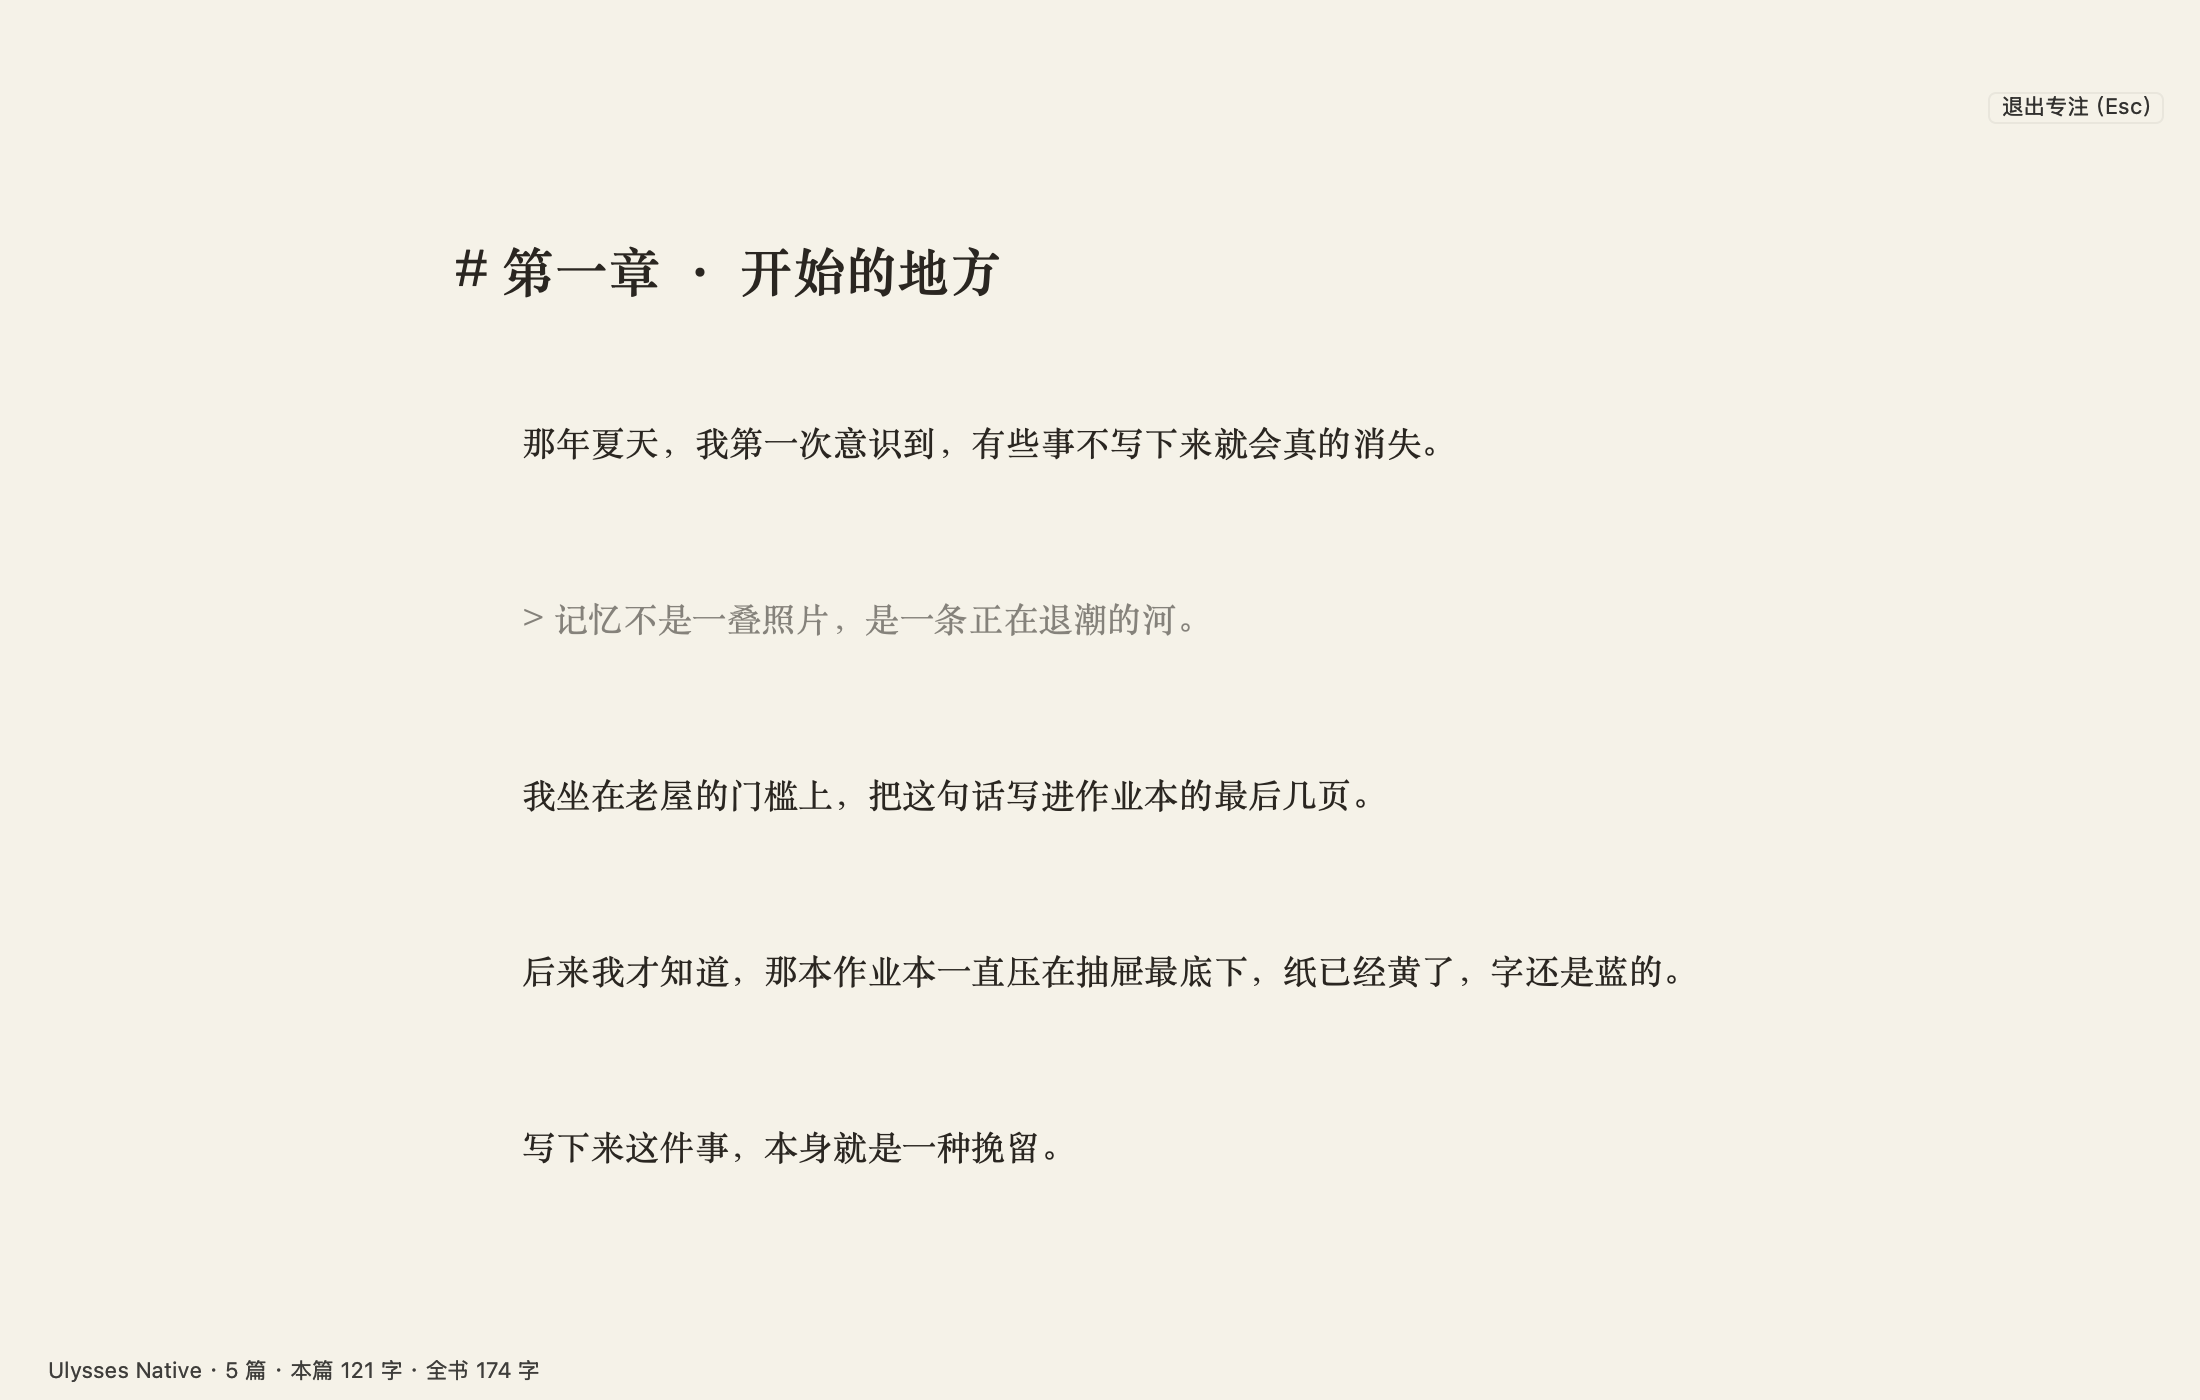
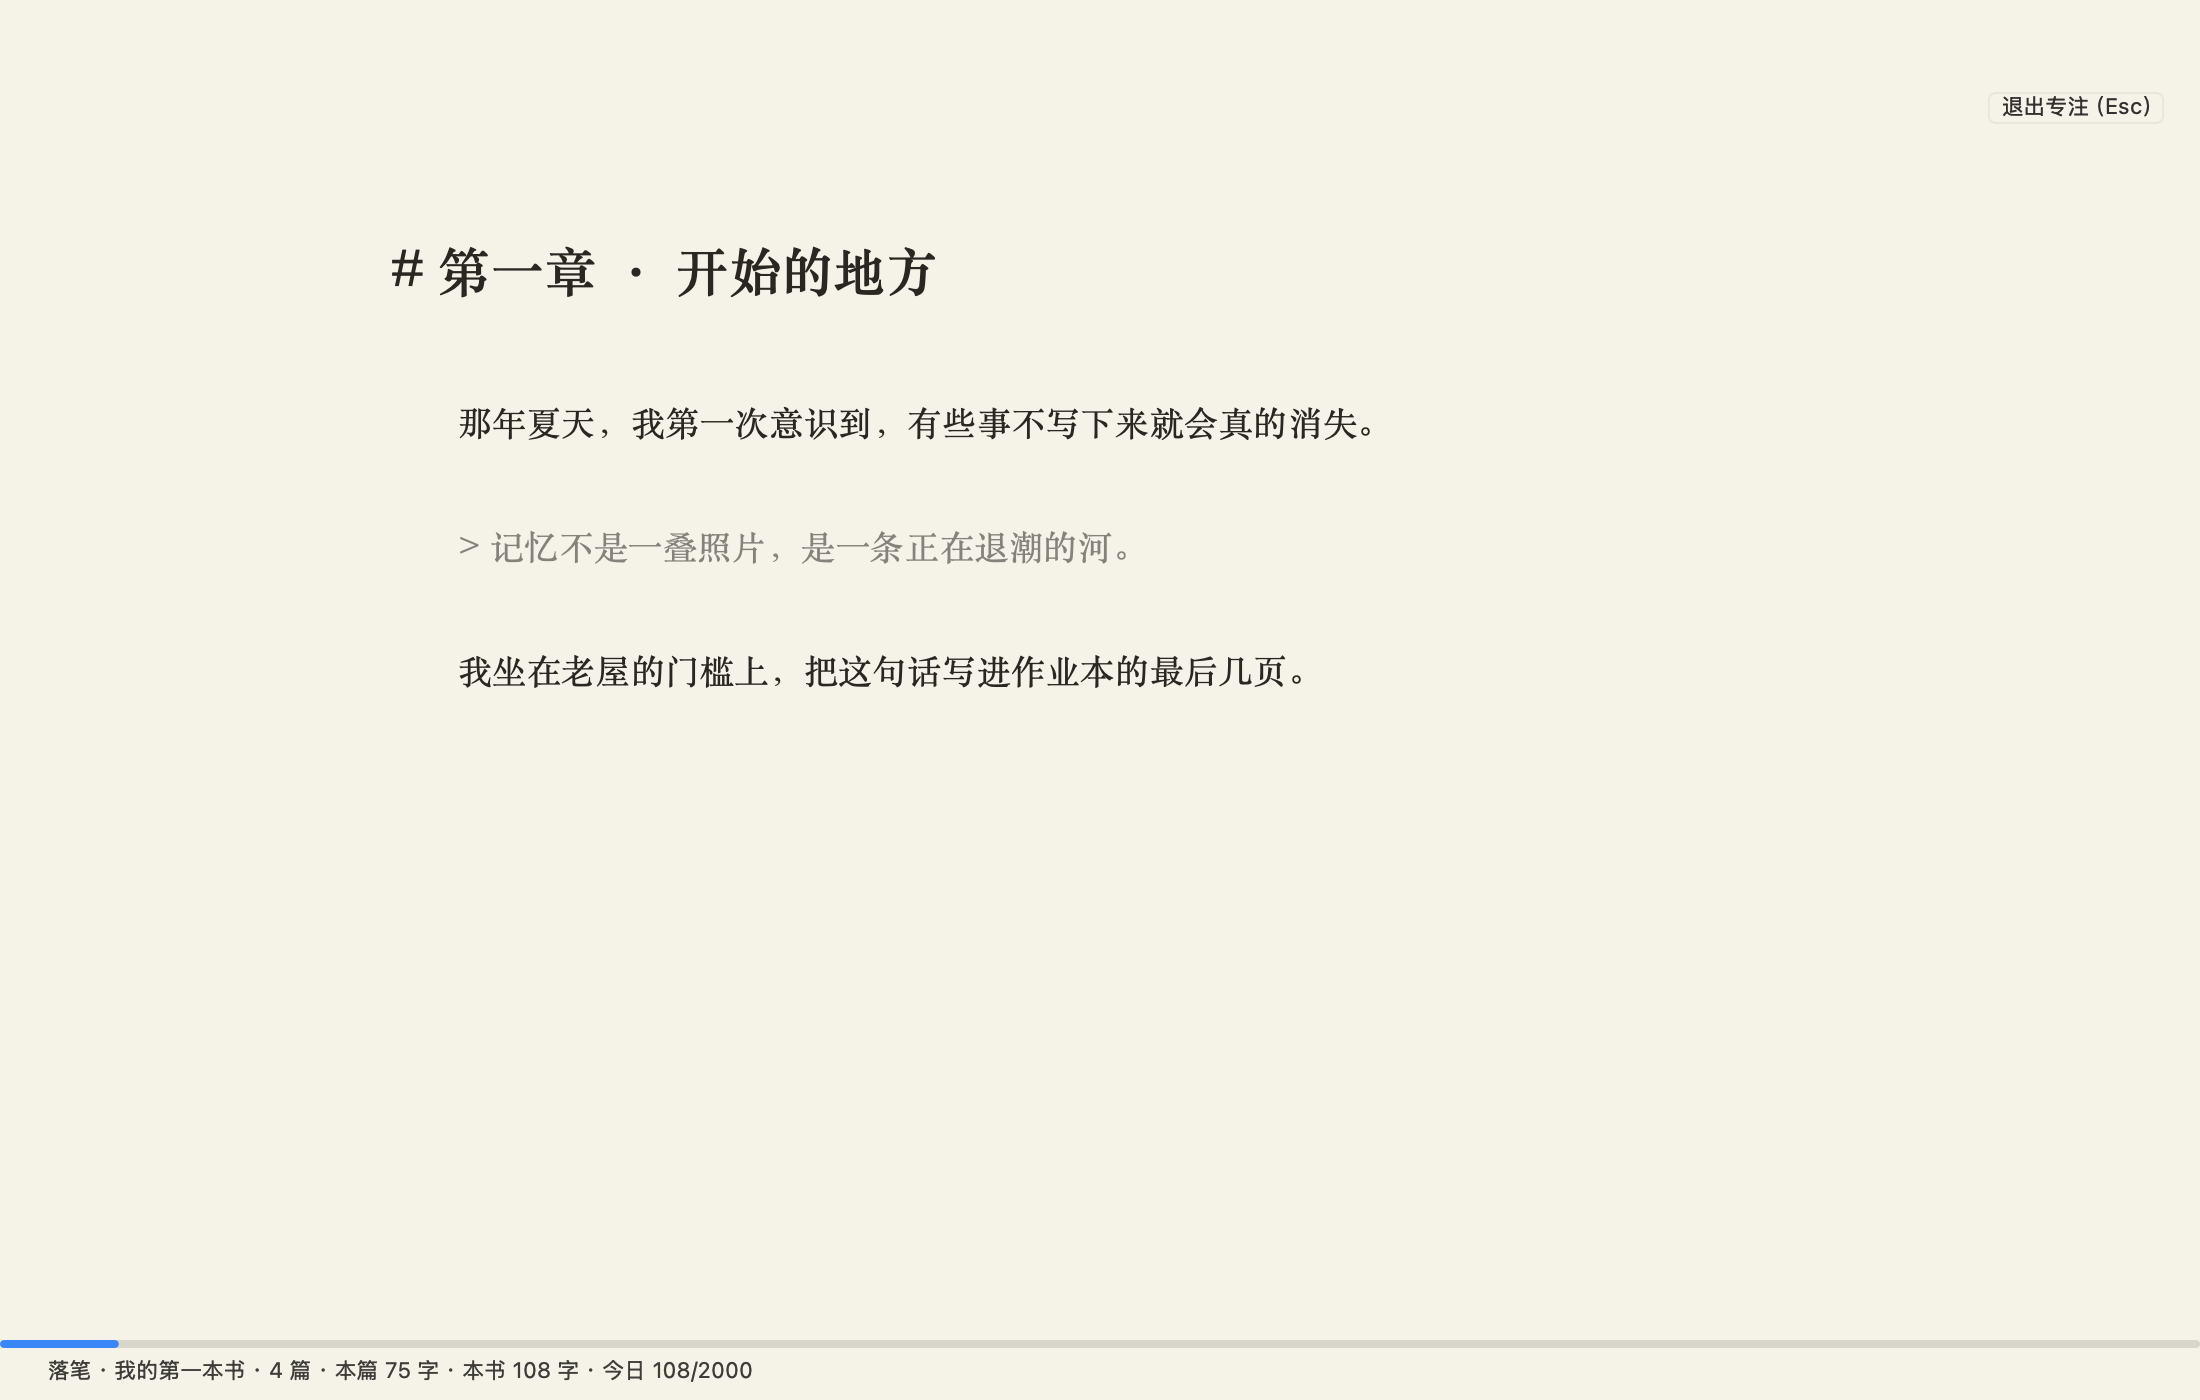
专注模式：退出提示自动淡出+顶边悬停再现；正文栏真正居中(720pt)且进度条随专注隐藏

diff --git a/luobi/Sources/Editor.swift b/luobi/Sources/Editor.swift
@@ -40,6 +40,9 @@ final class EditorRoot: NSView, NSTextViewDelegate, NSTextFieldDelegate {
     var readingHint: NSTextField? = nil
     var sidebarWasVisible = true
     var focusExitButton = NSButton()
+    /// 退出专注的提示淡出计时器；提示只在进来时出现，或鼠标移到顶上时出现
+    var focusHintTimer: Timer?
+    var focusTopTracker: NSTrackingArea?
     var searchField = NSSearchField()
     var plusButton = NSButton()
     var folderButton = NSButton()
@@ -54,6 +57,9 @@ final class EditorRoot: NSView, NSTextViewDelegate, NSTextFieldDelegate {
     var sidebarToggleButton: NSButton? = nil
     var sidebarWidth: NSLayoutConstraint!
     var titleLeading: NSLayoutConstraint!
+    /// 正文左边界：平时贴着标题（侧栏让出宽度），专注/阅读时改成贴窗口左边，让正文能真正居中
+    var scrollLeading: NSLayoutConstraint!
+    var scrollLeadingFull: NSLayoutConstraint!
     var sidebarViews: [NSView] = []
 
     // 书库入口：书库 ← → 写作 的切换由外层 Shell 负责，这里只放按钮和书名
@@ -359,7 +365,6 @@ final class EditorRoot: NSView, NSTextViewDelegate, NSTextFieldDelegate {
             focusExitButton.heightAnchor.constraint(equalToConstant: 24),
 
             scrollView.topAnchor.constraint(equalTo: titleInput.bottomAnchor, constant: 6),
-            scrollView.leadingAnchor.constraint(equalTo: titleInput.leadingAnchor),
             scrollView.trailingAnchor.constraint(equalTo: trailingAnchor),
 
             barLabel.topAnchor.constraint(equalTo: scrollView.bottomAnchor, constant: 6),
@@ -372,6 +377,9 @@ final class EditorRoot: NSView, NSTextViewDelegate, NSTextFieldDelegate {
         sidebarWidth.isActive = true
         titleLeading = titleInput.leadingAnchor.constraint(equalTo: sidebarScroll.trailingAnchor, constant: 20)
         titleLeading.isActive = true
+        scrollLeading = scrollView.leadingAnchor.constraint(equalTo: titleInput.leadingAnchor)
+        scrollLeadingFull = scrollView.leadingAnchor.constraint(equalTo: leadingAnchor)
+        scrollLeading.isActive = true
         sidebarViews = [backButton, bookLabel, collapseButton, searchField, plus, sidebarScroll, sidebarFooter, divider]
         applySidebarVisibility(animated: false)
 
@@ -687,7 +695,19 @@ final class EditorRoot: NSView, NSTextViewDelegate, NSTextFieldDelegate {
         updateTextInsets()
         toolStack.isHidden = on
         collapsedActions.isHidden = on || doc.sidebarVisible
-        focusExitButton.isHidden = !on
+        // 专注时正文贴窗口左边、自己靠 inset 居中；否则贴着标题左边界
+        scrollLeading.isActive = !on
+        scrollLeadingFull.isActive = on
+        refreshGoalProgress(nil)
+        if on {
+            // 进来时给一次提示，2.4 秒后自己淡掉；之后把鼠标移到顶边才会再出现
+            showFocusHint(autoHide: true)
+        } else {
+            focusHintTimer?.invalidate()
+            focusHintTimer = nil
+            focusExitButton.isHidden = true
+            focusExitButton.alphaValue = 1
+        }
         titleInput.isHidden = on
         if on {
             // 进专注时顺手记住侧栏原本的状态，退出时还原
@@ -697,6 +717,61 @@ final class EditorRoot: NSView, NSTextViewDelegate, NSTextFieldDelegate {
             doc.sidebarVisible = sidebarWasVisible
         }
         applySidebarVisibility(animated: true)
+    }
+
+    // MARK: 专注模式的「退出提示」
+
+    func showFocusHint(autoHide: Bool) {
+        guard focusMode else { return }
+        focusHintTimer?.invalidate()
+        focusHintTimer = nil
+        focusExitButton.isHidden = false
+        NSAnimationContext.runAnimationGroup({ ctx in
+            ctx.duration = 0.18
+            self.focusExitButton.animator().alphaValue = 1
+        }, completionHandler: nil)
+        guard autoHide else { return }
+        let t = Timer(timeInterval: 2.4, repeats: false) { [weak self] _ in
+            self?.hideFocusHint()
+        }
+        RunLoop.main.add(t, forMode: .common)
+        focusHintTimer = t
+    }
+
+    func hideFocusHint() {
+        guard focusMode else { return }
+        focusHintTimer?.invalidate()
+        focusHintTimer = nil
+        NSAnimationContext.runAnimationGroup({ ctx in
+            ctx.duration = 0.35
+            self.focusExitButton.animator().alphaValue = 0
+        }, completionHandler: { [weak self] in
+            guard let self = self, self.focusMode else { return }
+            self.focusExitButton.isHidden = true
+            self.focusExitButton.alphaValue = 1
+        })
+    }
+
+    /// 顶部 64pt 是"悬停区"：鼠标移到这里才提示怎么退出
+    override func updateTrackingAreas() {
+        super.updateTrackingAreas()
+        if let old = focusTopTracker { removeTrackingArea(old) }
+        let rect = NSRect(x: 0, y: max(0, bounds.height - 64), width: bounds.width, height: 64)
+        let area = NSTrackingArea(rect: rect,
+                                  options: [.mouseEnteredAndExited, .activeInKeyWindow],
+                                  owner: self, userInfo: nil)
+        addTrackingArea(area)
+        focusTopTracker = area
+    }
+
+    override func mouseEntered(with event: NSEvent) {
+        if focusMode { showFocusHint(autoHide: false) }
+        super.mouseEntered(with: event)
+    }
+
+    override func mouseExited(with event: NSEvent) {
+        if focusMode { hideFocusHint() }
+        super.mouseExited(with: event)
     }
 
     override func cancelOperation(_ sender: Any?) {

diff --git a/luobi/Sources/Gauge.swift b/luobi/Sources/Gauge.swift
@@ -56,16 +56,18 @@ extension EditorRoot {
     @objc func refreshGoalProgress(_ sender: Any?) {
         if gaugeGoalBar == nil { installGoalBar(sender) }
         guard let bar = gaugeGoalBar else { return }
+        // 专注/阅读是「只剩正文」的状态，进度条也一起藏起来
+        bar.isHidden = focusMode || readingMode
         // 优先用「今日目标」：写小说最需要的是今天有没有推进，而不是全书总量
         if doc.dailyGoal > 0 {
-            bar.isHidden = false
+            bar.isHidden = focusMode || readingMode
             let n = doc.todayWritten
             bar.progress = min(1, Double(n) / Double(doc.dailyGoal))
             bar.reachedGoal = (n >= doc.dailyGoal)
             return
         }
         let goal = doc.goal
-        bar.isHidden = (goal <= 0)
+        bar.isHidden = (goal <= 0) || focusMode || readingMode
         guard goal > 0 else { return }
         let n = statCJK(textView.string) + statLatin(textView.string)
         bar.progress = min(1, Double(n) / Double(goal))

diff --git a/luobi/Sources/Reading.swift b/luobi/Sources/Reading.swift
@@ -45,6 +45,10 @@ extension EditorRoot {
 
     func applyReadingMode() {
         let on = readingMode
+        scrollLeading.isActive = !on
+        scrollLeadingFull.isActive = on
+        updateTextInsets()
+        refreshGoalProgress(nil)
         if on {
             readingWasSidebarVisible = doc.sidebarVisible
             doc.sidebarVisible = false

diff --git a/luobi/README.md b/luobi/README.md
@@ -338,7 +338,8 @@ open build/Luobi.app
 | 打字机 | 光标所在行固定在屏幕中间 | 长时间写，眼睛不追着跑 |
 | 专注 | 收起侧栏与工具栏，正文收成居中一栏 | 不想被任何东西打扰时 |
 
-- 专注模式下按 **Esc**（或点右上角「退出专注」）回到完整界面。
+- 专注模式下按 **Esc** 回到完整界面。
+- 右上角的「退出专注」按钮**不会一直挂着**：进来时出现 2.4 秒就淡出；之后把鼠标移到窗口顶边，它才再出现。想退出又记不住键，就往上看一眼。
 - 底部状态栏是「篇数 · 本篇字数 · 全书字数」，写长篇时能看到总量在涨。
 
 ## 快捷键
@@ -396,6 +397,11 @@ App 内置了三层保险，日常不需要你操心：
 能，它本来就不联网。
 
 ## 更新日志
+
+### 1.1.1（当前）
+
+- 专注模式：退出提示进来时出现一次、2.4 秒后自动淡出；鼠标移到窗口顶边才再出现（不再有个按钮一直挂在右上角）
+- 专注/阅读时正文真正居中：栏宽固定 720pt，两侧留白均等；进度条也一起藏起来
 
 ### 1.1.0
 - 新建页面 / 新建章节回到手边：侧栏展开时在侧栏底部，收起时在主页面右上角。
